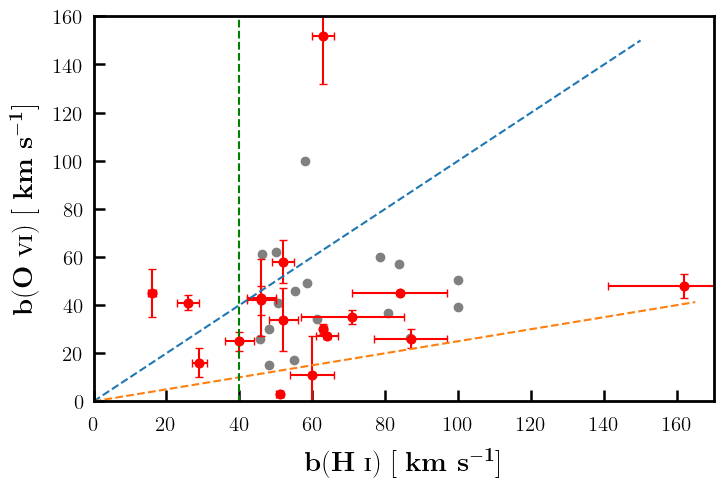
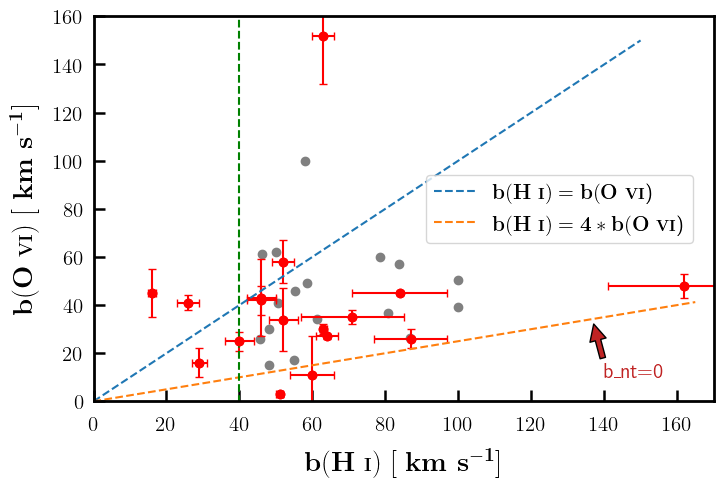
Desktop

diff --git a/Cloudy_runs/survey_results.py b/Cloudy_runs/survey_results.py
@@ -170,25 +170,25 @@ class abs_system():
         self.ion_modelling_sol=sol
 
 
-# absorbers=[
-#             abs_system('3c263',0.140756),
-#             abs_system('pks0637',0.161064),
-#             abs_system('pks0637',0.417539),
-#             abs_system('pg1424',0.147104),
-#             abs_system('pg0003',0.347579),                        
-#             abs_system('pg0003',0.386089),
-#             abs_system('pg0003',0.421923),
-#             abs_system('pg1216',0.282286),
-#             abs_system('s135712',0.097869),
-#             abs_system('1es1553',0.187764),
-#             abs_system('sbs1108',0.463207),
-#             abs_system('pg1222',0.378389),
-#             abs_system('pg1116',0.138527),
-#             abs_system('h1821',0.170006),
-#             abs_system('h1821',0.224981),
-#             abs_system('pg1121',0.192393),
-#             abs_system('pks0405',0.167125)
-#            ]
+absorbers=[
+            abs_system('3c263',0.140756),
+            abs_system('pks0637',0.161064),
+            abs_system('pks0637',0.417539),
+            abs_system('pg1424',0.147104),
+            abs_system('pg0003',0.347579),                        
+            abs_system('pg0003',0.386089),
+            abs_system('pg0003',0.421923),
+            abs_system('pg1216',0.282286),
+            abs_system('s135712',0.097869),
+            abs_system('1es1553',0.187764),
+            abs_system('sbs1108',0.463207),
+            abs_system('pg1222',0.378389),
+            abs_system('pg1116',0.138527),
+            abs_system('h1821',0.170006),
+            abs_system('h1821',0.224981),
+            abs_system('pg1121',0.192393),
+            abs_system('pks0405',0.167125)
+           ]
 
 # for a in absorbers:
 
@@ -210,33 +210,33 @@ class abs_system():
 
 
 
-# ion_model_sol=[a.ion_modelling_sol for a in absorbers]
+ion_model_sol=[a.ion_modelling_sol for a in absorbers]
 
-# NHi=zeros(int(len(data)/2))
+NHi=zeros(int(len(data)/2))
 
-# nH_exc=zeros(int(len(data)/2))
-# err_nH_exc=zeros(int(len(data)/2))
-# Z_exc=zeros(int(len(data)/2))
-# err_Z_exc=zeros(int(len(data)/2))
+nH_exc=zeros(int(len(data)/2))
+err_nH_exc=zeros(int(len(data)/2))
+Z_exc=zeros(int(len(data)/2))
+err_Z_exc=zeros(int(len(data)/2))
 
-# nH_inc=zeros(int(len(data)/2))
-# err_nH_inc=zeros(int(len(data)/2))
-# Z_inc=zeros(int(len(data)/2))
-# err_Z_inc=zeros(int(len(data)/2))
+nH_inc=zeros(int(len(data)/2))
+err_nH_inc=zeros(int(len(data)/2))
+Z_inc=zeros(int(len(data)/2))
+err_Z_inc=zeros(int(len(data)/2))
 
-# k=0
+k=0
 
-# for i,abs_sol in enumerate(ion_model_sol):
+for i,abs_sol in enumerate(ion_model_sol):
 
-#     for n in abs_sol:
-#         exc,inc=abs_sol[n]
+    for n in abs_sol:
+        exc,inc=abs_sol[n]
         
-#         NHi[k]=n
+        NHi[k]=n
 
-#         nH_exc[k],err_nH_exc[k],Z_exc[k],err_Z_exc[k]=exc
-#         nH_inc[k],err_nH_inc[k],Z_inc[k],err_Z_inc[k]=inc
+        nH_exc[k],err_nH_exc[k],Z_exc[k],err_Z_exc[k]=exc
+        nH_inc[k],err_nH_inc[k],Z_inc[k],err_Z_inc[k]=inc
 
-#         k+=1
+        k+=1
 
 
 
@@ -259,51 +259,65 @@ class abs_system():
 # plt.figure()
 # plt.hist(Z,bins=6,histtype='step',linewidth=2)
 
+# plt.figure()
+
+# plt.suptitle('N(H) = N(Hi) + N(Hii)')
 
 # plt.subplot(221)
-# plt.title('nH')
-# plt.scatter(nH,NH,c=log10(l),cmap='jet')
-# plt.colorbar()
+# plt.xlabel('nH')
+# plt.ylabel('N(H)')
+# plt.scatter(nH,NH)
+# # plt.colorbar()
 
 
 # plt.subplot(222)
-# plt.title('Z')
+# plt.xlabel('Z')
+# plt.ylabel('N(H)')
 # plt.scatter(Z,NH)
 
 # plt.subplot(223)
-# plt.title('NHi')
-# plt.scatter(NHi,NH,c=log(f_Hi),cmap='jet')
-# plt.colorbar()
+# plt.xlabel('N(Hi)')
+# plt.ylabel('N(H)')
+# plt.scatter(NHi,NH)
+# # plt.colorbar()
 
 # plt.subplot(224)
-# plt.title('L')
+# plt.xlabel('line of sight thickness (kpc)')
+# plt.ylabel('N(H)')
 # plt.scatter(l,NH)
 # plt.xscale('log')
 
-# plt.figure()
+# plt.show()
 
-# plt.scatter(nH,Z,c=NHi,cmap='jet')
-# plt.colorbar()
+# categories=[r'$\mathbf{Unexplained}$',r'$\mathbf{Explained}$', r'$\mathbf{Uncertain}$']
+# counts=[22,1,3]
 
-T_all=[]
+# plt.figure(figsize=(8,5))
+
+# plt.bar(categories,counts,width=0.3)
+
+# plt.xlabel(r'$\mathbf{Case}$',labelpad=15)
+# plt.ylabel(r'$\mathbf{No. \ of \ components}$',labelpad=15)
+# plt.tick_params(axis='x',bottom=False)
+# plt.ylim(0,25.8)
+# plt.savefig('Ovi_cases.png')
+# plt.show()
 
 
 
-
-
-
+# quit()
 
 
 
 # plt.figure(figsize=(16,10))
 
-# plt.subplot(121)
-# plt.title(f'$\mathbf{{Excluding \ }}$'+ion_label('O+5',ion_font_size=20,radicle_font_size=15))
+# # plt.subplot(121)
+# # plt.title(f'$\mathbf{{Excluding \ }}$'+ion_label('O+5',ion_font_size=20,radicle_font_size=15))
 # # plt.scatter(nH_exc,Z_exc)
 # plt.errorbar(nH_exc,Z_exc,xerr=err_nH_exc,yerr=err_Z_exc,fmt='o',capsize=3)
 # plt.xlabel(r'$\mathbf{log \ n_H}$')
 # plt.ylabel(r'$\mathbf{log \ Z}$')
-# # plt.colorbar()
+# plt.colorbar()
 
 # plt.subplot(122)
 # plt.title(f'$\mathbf{{Including \ }}$'+ion_label('O+5',ion_font_size=20,radicle_font_size=15))
@@ -316,17 +330,20 @@ T_all=[]
 # plt.subplots_adjust(wspace=0.34)
 # plt.savefig('Z_vs_nH.png')
 
+# plt.figure()
+plt.figure(figsize=(16,10))
 
-# plt.figure(figsize=(16,10))
-
-# plt.subplot(121)
+plt.subplot(121)
 # plt.title(f'$\mathbf{{Excluding \ }}$'+ion_label('O+5',ion_font_size=20,radicle_font_size=15))
-# # plt.scatter(nH_exc,NHi)
-# plt.errorbar(nH_exc,NHi,xerr=err_nH_exc,fmt='o',capsize=3)
-# plt.xlabel(r'$\mathbf{log \ n_H}$')
-# plt.ylabel(r'$\mathbf{log \ N(Hi)}$')
+# plt.scatter(nH_exc,NHi)
+plt.errorbar(nH_exc,NHi,xerr=err_nH_exc,fmt='o',capsize=3)
+plt.xlabel(r'$\mathbf{log \ n_H}$')
+plt.ylabel(r'$\mathbf{log \ N(Hi)}$')
 
-# plt.subplot(122)
+plt.subplot(122)
+plt.errorbar(Z_exc,NHi,xerr=err_Z_exc,fmt='o',capsize=3)
+plt.xlabel(r'$\mathbf{log \ Z}$')
+plt.ylabel(r'$\mathbf{log \ N(Hi)}$')
 # plt.title(f'$\mathbf{{Including \ }}$'+ion_label('O+5',ion_font_size=20,radicle_font_size=15))
 # # plt.scatter(nH_inc,NHi)
 # plt.errorbar(nH_inc,NHi,xerr=err_nH_inc,fmt='o',capsize=3)
@@ -334,16 +351,18 @@ T_all=[]
 # plt.ylabel(r'$\mathbf{log \ N(Hi)}$')
 
 # plt.subplots_adjust(wspace=0.34)
-# plt.savefig('NHi_vs_nH.png')
+plt.savefig('NHi_vs_nH_Z.png')
 
+plt.show()
+quit()
 
-# plt.figure(figsize=(16,10))
+plt.figure(figsize=(16,10))
 
 # plt.subplot(121)
 # plt.title(f'$\mathbf{{Excluding \ }}$'+ion_label('O+5',ion_font_size=20,radicle_font_size=15))
-# plt.errorbar(Z_exc,NHi,xerr=err_Z_exc,fmt='o',capsize=3)
-# plt.xlabel(r'$\mathbf{log \ Z}$')
-# plt.ylabel(r'$\mathbf{log \ N(Hi)}$')
+plt.errorbar(Z_exc,NHi,xerr=err_Z_exc,fmt='o',capsize=3)
+plt.xlabel(r'$\mathbf{log \ Z}$')
+plt.ylabel(r'$\mathbf{log \ N(Hi)}$')
 
 # plt.subplot(122)
 # plt.title(f'$\mathbf{{Including \ }}$'+ion_label('O+5',ion_font_size=20,radicle_font_size=15))
@@ -352,7 +371,7 @@ T_all=[]
 # plt.ylabel(r'$\mathbf{log \ N(Hi)}$')
 
 # plt.subplots_adjust(wspace=0.34)
-# plt.savefig('NHi_vs_Z.png')
+plt.savefig('NHi_vs_Z.png')
 
 # plt.figure()
 
@@ -364,7 +383,9 @@ T_all=[]
 # plt.hist(nH_inc,bins=4)
 # plt.xlabel(r'$\mathbf{log \ n_H}$')
 
-# plt.show()
+plt.show()
+
+quit()
 
 
 
@@ -540,16 +561,20 @@ plt.figure(figsize=(8,5))
 plt.scatter(b_H,b_OVI,c='red')
 plt.scatter(danforth_b_Hi,danforth_b_Ovi,c='grey')
 plt.errorbar(b_H,b_OVI,yerr=b_OVI_err,xerr=b_H_err,c='red',fmt='o',capsize=3)
-plt.plot(array([0,150]),array([0,150]),ls='--')
-plt.plot(array([0,165]),array([0,165/4]),ls='--')
+plt.plot(array([0,150]),array([0,150]),ls='--',label=f'$\mathbf{{b(}}$'+ion_label('H',ion_font_size=15,radicle_font_size=11)+f'$\mathbf{{)=b(}}$'+ion_label('O+5',ion_font_size=15,radicle_font_size=11)+')')
+plt.plot(array([0,165]),array([0,165/4]),ls='--',label=f'$\mathbf{{b(}}$'+ion_label('H',ion_font_size=15,radicle_font_size=11)+f'$\mathbf{{)=4*b(}}$'+ion_label('O+5',ion_font_size=15,radicle_font_size=11)+')')
 plt.vlines(40,-10,170,ls='--',color='green')
 plt.xlabel(f'$\mathbf{{b(}}$'+ion_label('H',ion_font_size=20,radicle_font_size=13)+r'$\mathbf{) \ [ \ km \ {s}^{-1}}]$',labelpad=10,fontsize=20)
 plt.ylabel(f'$\mathbf{{b(}}$'+ion_label('O+5',ion_font_size=20,radicle_font_size=13)+r'$\mathbf{) \ [ \ km \ {s}^{-1}}]$',labelpad=10,fontsize=20)
 plt.ylim(bottom=0,top=160)
+plt.legend(fontsize=15)
 plt.xlim(0,170)
+plt.annotate('b_nt=0',(137,33) ,xytext=(140,10),xycoords='data',arrowprops=dict(facecolor='#c02424', shrink=0.05),fontsize=15,c='#c02424',weight='bold')
 plt.savefig('bHi_vs_BOvi_danforth.png')
 
-# quit()
+plt.show()
+
+quit()
 
 
 # plt.figure(figsize=(13,7))

diff --git a/Python/system_plots_full.py b/Python/system_plots_full.py
@@ -341,7 +341,7 @@ for i,line in enumerate(lines):
         plt.tick_params('y', labelsize=35)
 
     if i < n-n_col:
-        plt.tick_params('x', labelbottom=False)
+        
     
     else:
         plt.tick_params('x', labelbottom=True,labelsize=35)
